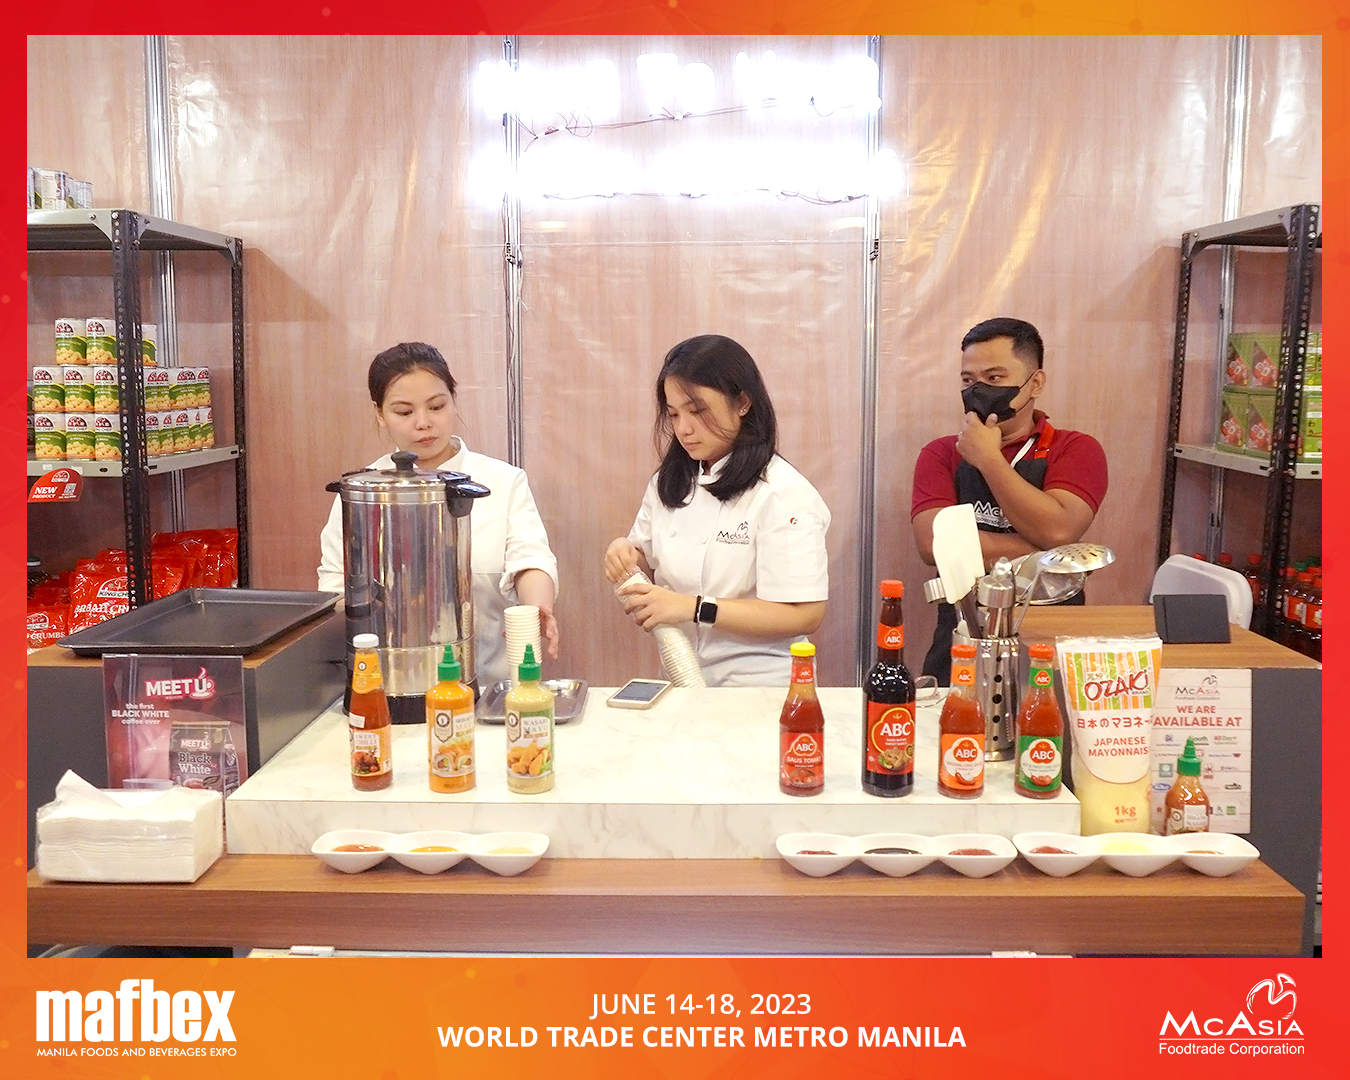
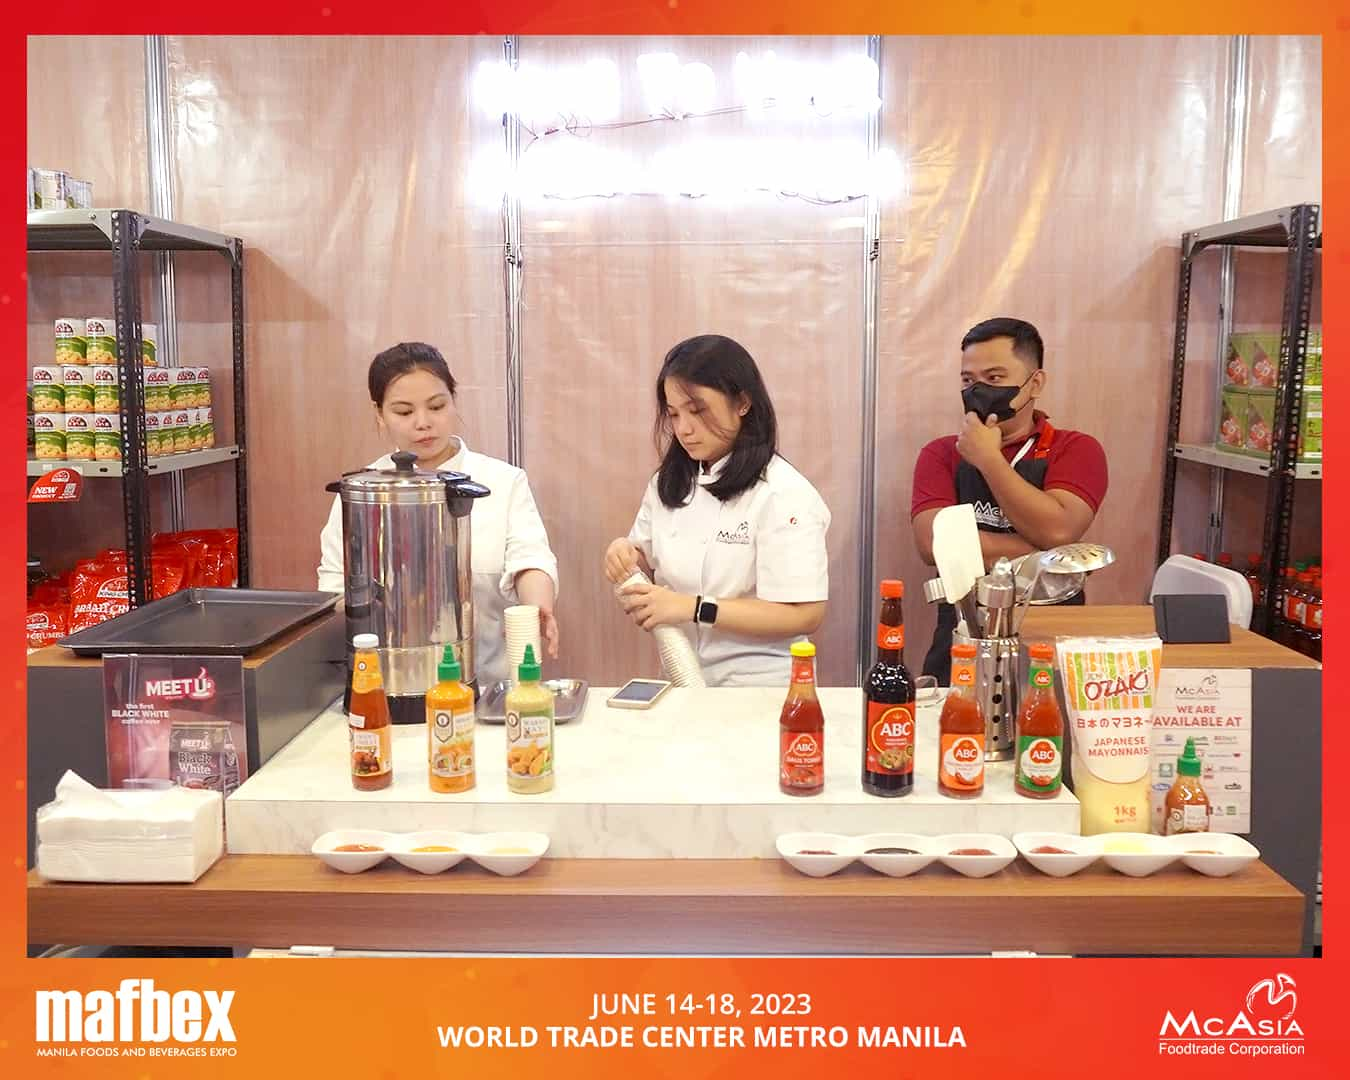
Fixed the issue wherein the images is not showing. Optimized the images.

diff --git a/resources/views/news_event.blade.php b/resources/views/news_event.blade.php
@@ -61,11 +61,11 @@
                     'date' => 'August 2025',
                     'description' => 'MAFBEX 2025 was held at the World Trade Center Manila, and McAsia Foodtrade Corporation was proud to be part of this exciting event. At our booth, we shared product samples, fun giveaways, and had the chance to meet with partners and food enthusiasts. It was a great way to show our quality products and connect with more people in the industry. Thank you to everyone who visited—we look forward to serving more flavors soon!',
                     'images' => [
-                        'images/EVENTS/MAFBEX 2025/1.jpeg',
-                        'images/EVENTS/MAFBEX 2025/2.jpeg',
-                        'images/EVENTS/MAFBEX 2025/3.jpeg',
-                        'images/EVENTS/MAFBEX 2025/4.jpeg',
-                        'images/EVENTS/MAFBEX 2025/5.jpeg',
+                        'images/EVENTS/MAFBEX 2025/1.jpg',
+                        'images/EVENTS/MAFBEX 2025/2.jpg',
+                        'images/EVENTS/MAFBEX 2025/3.jpg',
+                        'images/EVENTS/MAFBEX 2025/4.jpg',
+                        'images/EVENTS/MAFBEX 2025/5.jpg',
                     ],
                 ],
                 [
@@ -73,12 +73,12 @@
                     'date' => 'August 2025',
                     'description' => 'McAsia Foodtrade Corporation brought bold flavors and kitchen excitement to WOFEX Iloilo 2025! We proudly joined the event to showcase our wide range of sauces, condiments, and Asian ingredients that bring authentic flavors to every kitchen. It was a great opportunity to connect with chefs, food entrepreneurs, and partners who share our passion for quality and taste. We’re grateful to everyone who visited our booth and look forward to bringing more Asian flavors closer to you.',
                     'images' => [
-                        'images/EVENTS/WOFEX lloilo 2025/1.jpeg',
-                        'images/EVENTS/WOFEX lloilo 2025/2.jpeg',
-                        'images/EVENTS/WOFEX lloilo 2025/3.jpeg',
-                        'images/EVENTS/WOFEX lloilo 2025/4.jpeg',
-                        'images/EVENTS/WOFEX lloilo 2025/5.jpeg',
-                        'images/EVENTS/WOFEX lloilo 2025/6.jpeg',
+                        'images/EVENTS/WOFEX lloilo 2025/1.jpg',
+                        'images/EVENTS/WOFEX lloilo 2025/2.jpg',
+                        'images/EVENTS/WOFEX lloilo 2025/3.jpg',
+                        'images/EVENTS/WOFEX lloilo 2025/4.jpg',
+                        'images/EVENTS/WOFEX lloilo 2025/5.jpg',
+                        'images/EVENTS/WOFEX lloilo 2025/6.jpg',
                     ],
                 ],
                 [
@@ -99,11 +99,14 @@
                     'title' => 'WOFEX Visayas 2025',
                     'date' => 'August 2025',
                     'images' => [
-                        'images/EVENTS/WOFEX VISAYAS 2025/1.jpeg',
-                        'images/EVENTS/WOFEX VISAYAS 2025/2.jpeg',
-                        'images/EVENTS/WOFEX VISAYAS 2025/3.jpeg',
-                        'images/EVENTS/WOFEX VISAYAS 2025/4.jpeg',
-                        'images/EVENTS/WOFEX VISAYAS 2025/5.jpeg',
+                        'images/EVENTS/WOFEX VISAYAS 2025/1.jpg',
+                        'images/EVENTS/WOFEX VISAYAS 2025/2.jpg',
+                        'images/EVENTS/WOFEX VISAYAS 2025/3.jpg',
+                        'images/EVENTS/WOFEX VISAYAS 2025/4.jpg',
+                        'images/EVENTS/WOFEX VISAYAS 2025/5.jpg',
+                        'images/EVENTS/WOFEX VISAYAS 2025/6.jpg',
+                        'images/EVENTS/WOFEX VISAYAS 2025/7.jpg',
+                        'images/EVENTS/WOFEX VISAYAS 2025/8.jpg',
                     ],
                     'description' => 'McAsia Foodtrade Corporation was honored to be part of WOFEX Visayas 2025! The event was a dynamic platform where we showcased our trusted line of sauces, condiments, and Asian specialties that bring authentic flavors to every kitchen. It was an exciting opportunity to connect with industry leaders, strengthen partnerships, and highlight our commitment to quality and innovation. With every event like WOFEX, McAsia continues to serve solutions that inspire chefs, home cooks, and food businesses alike. Thank you to everyone who visited and connected with us during the event. '
                 ],
@@ -111,7 +114,7 @@
                     'title' => 'WOFEX Davao 2025',
                     'date' => 'August 2025',
                     'images' => [
-                        'images/EVENTS/WOFEX Davao 2025/1.jpeg',
+                        'images/EVENTS/WOFEX Davao 2025/1.jpg',
                         'images/EVENTS/WOFEX Davao 2025/2.jpg',
                         'images/EVENTS/WOFEX Davao 2025/3.jpg',
                         'images/EVENTS/WOFEX Davao 2025/4.jpg',
@@ -255,12 +258,16 @@
             <!-- Events Grid -->
             <div class="grid grid-cols-1 sm:grid-cols-2 md:grid-cols-3 gap-4 md:gap-6">
                 @foreach($events as $event)
+                    @php
+                        $eventImages = array_map(fn($img) => asset($img), $event['images']);
+                        $hasDescription = filled(trim($event['description'] ?? ''));
+                    @endphp
                     <div class="cursor-pointer rounded-lg shadow-md transition p-2 md:p-4"
-                        x-data="{ open: false, index: 0, fullImage: null, images: {{ json_encode($event['images']) }} }">
+                        x-data="{ open: false, index: 0, fullImage: null, images: {{ json_encode($eventImages) }} }">
 
                         <!-- Event Card -->
                         <div @click="open = true">
-                            <img src="{{ $event['images'][0] }}" alt="{{ $event['title'] }}"
+                            <img src="{{ $eventImages[0] }}" alt="{{ $event['title'] }}"
                                 class="w-full h-36 sm:h-40 md:h-48 object-cover rounded mb-2 ">
                             <h4 class="text-lg font-semibold truncate">{{ $event['title'] }}</h4>
                             <p class="text-xs sm:text-sm text-gray-400">{{ $event['date'] }}</p>
@@ -268,20 +275,20 @@
 
                         <!-- Event Modal -->
                         <div x-show="open" x-data="{
-                                                                index: 0,
-                                                                fullImage: null,
-                                                                images: {{ json_encode($event['images']) }},
-                                                                slideshow: null,
-                                                                startSlideshow() {
-                                                                    this.slideshow = setInterval(() => {
-                                                                        this.index = (this.index + 1) % this.images.length;
-                                                                    }, 5000);
-                                                                },
-                                                                stopSlideshow() {
-                                                                    clearInterval(this.slideshow);
-                                                                    this.index = 0;
-                                                                }
-                                                            }" x-init="startSlideshow()"
+                                                                                        index: 0,
+                                                                                        fullImage: null,
+                                                                                        images: {{ json_encode($eventImages) }},
+                                                                                        slideshow: null,
+                                                                                        startSlideshow() {
+                                                                                            this.slideshow = setInterval(() => {
+                                                                                                this.index = (this.index + 1) % this.images.length;
+                                                                                            }, 5000);
+                                                                                        },
+                                                                                        stopSlideshow() {
+                                                                                            clearInterval(this.slideshow);
+                                                                                            this.index = 0;
+                                                                                        }
+                                                                                    }" x-init="startSlideshow()"
                             @click.away="open = false; stopSlideshow()"
                             class="fixed inset-0 bg-black bg-opacity-90 flex items-center justify-center z-[9999] overflow-auto p-4">
 
@@ -289,13 +296,13 @@
                                 class="bg-white rounded-xl w-full max-w-6xl max-h-[95vh] flex flex-col relative overflow-hidden">
 
                                 <div
-                                    class="relative bg-white rounded-lg shadow-lg p-6 md:p-10 max-w-6xl mx-auto flex flex-col md:flex-row gap-8">
+                                    class="relative w-full p-6 md:p-10 max-w-6xl mx-auto flex flex-col md:flex-row gap-8">
 
                                     <!-- Left: Slideshow -->
-                                    <div class="relative flex-shrink-0 w-full md:w-1/2">
+                                    <div class="relative flex-shrink-0 w-full md:w-1/2 flex justify-center">
 
                                         <!-- Slideshow Container -->
-                                        <div class="relative mb-4 flex-shrink-0 h-[60vh] md:h-[60vh] mt-15">
+                                        <div class="relative mb-4 w-full max-w-[560px] h-[52vh] md:h-[60vh]">
                                             <template x-for="(img, i) in images" :key="i">
                                                 <img x-show="i === index" x-transition:enter="transition-opacity duration-500"
                                                     x-transition:enter-start="opacity-0 scale-95"
@@ -318,23 +325,23 @@
                                     </div>
 
                                     <!-- Right: Title + Date + Description -->
-                                    <div class="flex-1 flex flex-col justify-center p-4 text-center md:text-left">
-                                        <!-- Title -->
+                                    <div
+                                        class="flex-1 flex flex-col justify-center p-4 text-center md:text-left">
                                         <h2 class="text-3xl font-bold text-black mb-2">{{ $event['title'] }}</h2>
-
-                                        <!-- Date -->
-                                        <p class="text-sm md:text-base text-gray-500 mb-4">{{ $event['date'] }}</p>
-
-                                        <!-- Description -->
-                                        <p
-                                            class="text-base md:text-lg text-gray-700 text-justify leading-relaxed overflow-auto">
-                                            {{ $event['description'] }}
+                                        <p class="text-sm md:text-base text-gray-500 {{ $hasDescription ? 'mb-4' : '' }}">
+                                            {{ $event['date'] }}
                                         </p>
+                                        @if ($hasDescription)
+                                            <p
+                                                class="text-base md:text-lg text-gray-700 text-justify leading-relaxed overflow-auto">
+                                                {{ $event['description'] }}
+                                            </p>
+                                        @endif
                                     </div>
 
                                     <!-- Close Button -->
                                     <button @click="open = false; stopSlideshow()"
-                                        class="absolute top-3 right-3 text-black hover:text-black text-1xl font-bold z-20">X</button>
+                                        class="absolute top-4 right-4 w-10 h-10 rounded-full bg-white/95 text-black hover:bg-white text-2xl leading-none font-bold z-[10001] shadow-md">X</button>
 
                                     <!-- Fullscreen Preview -->
                                     <div x-show="fullImage"
